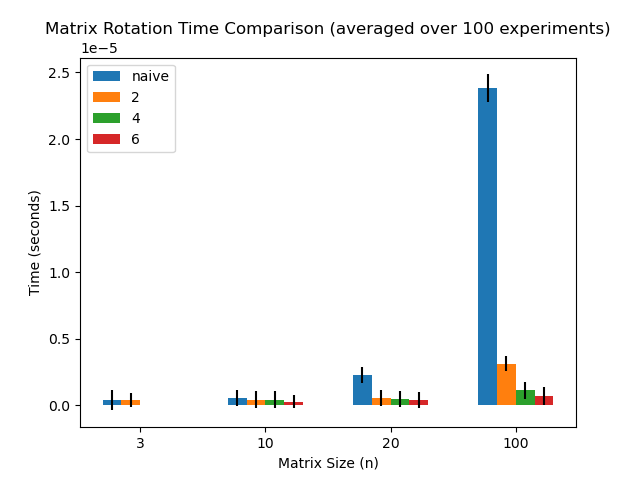
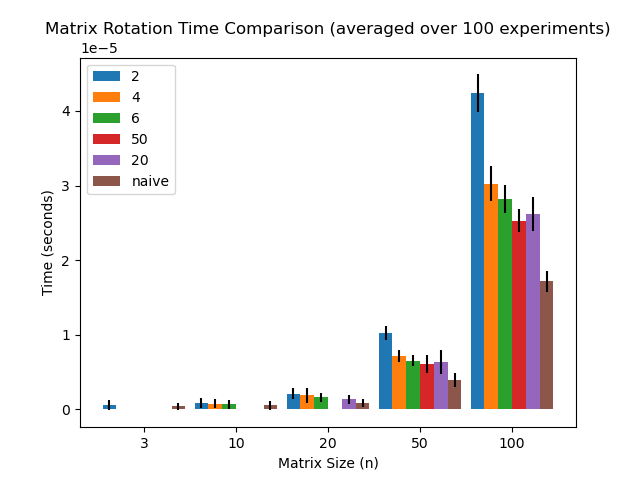
Blocked Matrix Rotation, WIP

diff --git a/MatrixRotation/src/matrix_rotation.cpp b/MatrixRotation/src/matrix_rotation.cpp
@@ -39,9 +39,12 @@ void rotate_naive(double *src, double *dest, int n) {
  */
 void rotate_blocked(double *src, double *dest, int n, int B) {
   for (int i = 0; i < n; i += B)
-    for (int j = 0; j < n; j += B) {
-      // TODO: Implement the blocked rotation here.
-    }
+    for (int j = 0; j < n; j += B)
+      // TODO: Implement the blocked rotation minimising cache misses.
+      for (int bi = 0; bi < B && (i + bi) < n; bi++)
+        for (int bj = 0; bj < B && (j + bj) < n; bj++)
+          dest[(j + bj) * n + (n - 1 - (i + bi))] =
+              src[(i + bi) * n + (j + bj)];
 }
 
 /**
